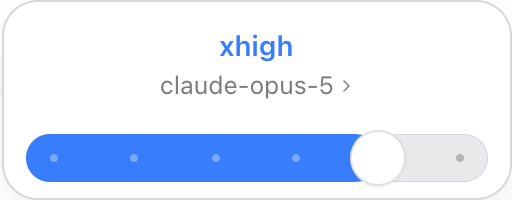
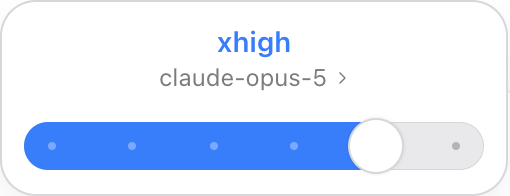
fix: 对齐 Codex 选择器的滚动与交互动画
将标题与搜索框移出模型列表滚动区域，使用双面板过渡并保持展开底边固定。

对齐 254px 面板、24px 轨道、28px 滑块，补充切档吸附、悬停弹性缩放、档位圆点反馈与抓取光标；最高档位使用渐变及一次性粒子扩散。

升级至 0.4.4，更新开源文档与截图；15 项逻辑测试和隔离 DSH 页面测试通过。

diff --git a/src/styles.css b/src/styles.css
@@ -14,33 +14,34 @@
 .dme-segmented{display:flex;gap:2px;border-radius:10px;background:color-mix(in srgb,currentColor 6%,transparent);padding:3px}.dme-segmented label{position:relative;cursor:pointer}.dme-segmented input{position:absolute;opacity:0;width:100%;height:100%;margin:0}.dme-segmented span{display:block;padding:7px 14px;border-radius:8px;font-size:13px}.dme-segmented input:checked+span{background:var(--ds-color-background-elevated,#fff);box-shadow:0 1px 4px #00000014}.dme-segmented input:focus-visible+span{outline:2px solid #387df8;outline-offset:1px}
 
 .dme-picker-trigger,.dme-picker-panel{--dmp-text:#161719;--dmp-muted:#7b7c80;--dmp-surface:#fff;--dmp-border:#d7d7d9;--dmp-hover:#f3f3f4;--dmp-track:#e9e9eb;--dmp-accent:#387dfa;box-sizing:border-box;color:var(--dmp-text);font-family:-apple-system,BlinkMacSystemFont,"Segoe UI",sans-serif}
-.dme-picker-trigger{display:inline-flex;align-items:center;gap:4px;max-width:360px;border:0;background:transparent;padding:4px 5px;font-size:13px;line-height:20px;cursor:pointer;border-radius:6px}.dme-picker-trigger>span:first-child{overflow:hidden;white-space:nowrap;text-overflow:ellipsis}.dme-picker-trigger .dme-chevron{transform:rotate(90deg);margin-left:2px;width:10px;height:10px;color:var(--dmp-muted)}.dme-trigger-effort{color:var(--dmp-muted);flex:none}.dme-picker-trigger:hover{background:var(--dmp-hover)}
+.dme-picker-trigger{display:inline-flex;align-items:center;gap:4px;max-width:360px;border:0;background:transparent;padding:4px 5px;font-size:13px;line-height:20px;cursor:default;border-radius:6px}.dme-picker-trigger>span:first-child{overflow:hidden;white-space:nowrap;text-overflow:ellipsis}.dme-picker-trigger .dme-chevron{transform:rotate(90deg);margin-left:2px;width:10px;height:10px;color:var(--dmp-muted)}.dme-trigger-effort{color:var(--dmp-muted);flex:none}.dme-picker-trigger:hover{background:var(--dmp-hover)}
 .dme-chevron,.dme-check{flex:none;fill:none;stroke:currentColor;stroke-linecap:round;stroke-linejoin:round;stroke-width:1.5}.dme-check{color:var(--dmp-muted)}
-.dme-picker-panel{position:fixed;z-index:1200;width:min(255px,calc(100vw - 24px));border:1px solid var(--dmp-border);border-radius:18px;background:var(--dmp-surface);box-shadow:0 8px 18px #00000010;overflow:hidden;overscroll-behavior:contain;padding:8px;scrollbar-width:none;isolation:isolate}.dme-picker-panel[data-pane=models]{overflow-y:auto}.dme-picker-panel::-webkit-scrollbar{display:none;width:0;height:0}
-.dme-picker-panel *{box-sizing:border-box}.dme-picker-panel button{color:inherit;font:inherit;cursor:pointer}.dme-picker-panel button:disabled,.dme-picker-trigger:disabled{cursor:default;opacity:.5}.dme-picker-panel button:focus-visible,.dme-picker-trigger:focus-visible{outline:2px solid var(--dmp-accent,#387dfa);outline-offset:1px}
-.dme-codex-effort{padding:2px 3px 0}.dme-effort-title{text-align:center;color:var(--dmp-accent);font-size:14px;line-height:20px;font-weight:600}.dme-model-link{display:flex;flex-direction:column;align-items:center;justify-content:center;max-width:100%;margin:0 auto;padding:2px 12px;border:0;border-radius:6px;background:transparent;transition:background-color .12s ease}.dme-model-link:hover,.dme-model-link:focus-visible{background:var(--dmp-hover)}.dme-current-model{display:flex;align-items:center;justify-content:center;gap:3px;max-width:100%;font-size:12.5px;line-height:20px;color:var(--dmp-muted);white-space:nowrap;overflow:hidden;text-overflow:ellipsis}.dme-model-link .dme-chevron{width:8px;height:8px}
-.dme-rail{position:relative;margin-top:12px;height:24px;border-radius:12px;background:var(--dmp-track);box-shadow:inset 0 0 0 .5px #00000014}.dme-rail-fill{position:absolute;inset:0 auto 0 0;width:calc(14px + (100% - 28px)*var(--dme-progress));border-radius:12px;background:var(--dmp-accent)}
-.dme-ticks{position:absolute;inset:0 14px;pointer-events:none}.dme-ticks i{position:absolute;top:10px;width:4px;height:4px;border-radius:50%;background:#b4b4b8;transform:translateX(-50%)}.dme-ticks i[data-filled]{background:#ffffff55}
-.dme-rail input{appearance:none;-webkit-appearance:none;position:absolute;inset:0;width:100%;height:24px;background:transparent;margin:0;cursor:ew-resize;touch-action:none;border:0;outline:none;border-radius:12px}.dme-rail input::-webkit-slider-runnable-track{height:24px;background:transparent}.dme-rail input::-webkit-slider-thumb{appearance:none;-webkit-appearance:none;width:28px;height:28px;margin-top:-2px;background:#fff;border:1px solid #e0e0e3;border-radius:50%;box-shadow:0 1px 2px #0000000d}.dme-rail input::-moz-range-track{height:24px;background:transparent}.dme-rail input::-moz-range-thumb{width:26px;height:26px;background:#fff;border:1px solid #e0e0e3;border-radius:50%;box-shadow:0 1px 2px #0000000d}.dme-rail input:focus-visible{outline:2px solid var(--dmp-accent);outline-offset:4px}.dme-rail input:disabled{cursor:default}
-.dme-codex-effort[data-highest] .dme-effort-title{color:#9655ff}.dme-codex-effort[data-highest] .dme-rail-fill{width:100%;background:linear-gradient(100deg,#353dcc,#7250ef 35%,#aa62ff 65%,#8762fa);background-size:150% 100%;animation:dme-glow 5s ease-in-out infinite alternate}.dme-codex-effort[data-highest] .dme-ticks{visibility:hidden}
+.dme-picker-panel{position:fixed;z-index:1200;width:min(254px,calc(100vw - 24px));border:.5px solid var(--dmp-border);border-radius:18px;background:var(--dmp-surface);box-shadow:0 8px 18px #00000010;overflow:hidden;padding:8px;isolation:isolate}.dme-picker-content{display:flex;flex-direction:column;height:100%;min-height:0}.dme-picker-views{position:relative;flex:1;min-height:0;overflow:clip}.dme-picker-pane{position:absolute;inset:0 0 auto;opacity:1;translate:0}.dme-picker-models{height:100%;display:flex;flex-direction:column}.dme-picker-pane[data-active=false]{pointer-events:none;opacity:0}.dme-picker-root[data-active=false]{translate:0 -10px}.dme-picker-models[data-active=false]{translate:0 10px}.dme-model-header{flex:none}.dme-model-list{flex:1;min-height:0;overflow-y:auto;overscroll-behavior:contain;scrollbar-width:none}.dme-model-list::-webkit-scrollbar{display:none;width:0;height:0}
+.dme-picker-panel *{box-sizing:border-box}.dme-picker-panel button{color:inherit;font:inherit;cursor:default}.dme-picker-panel button:disabled,.dme-picker-trigger:disabled{cursor:default;opacity:.5}.dme-picker-panel button:focus-visible,.dme-picker-trigger:focus-visible{outline:2px solid var(--dmp-accent,#387dfa);outline-offset:1px}
+.dme-codex-effort{padding:0 3px 2px}.dme-effort-title{text-align:center;color:var(--dmp-accent);font-size:14px;line-height:20px;font-weight:600}.dme-model-link{display:flex;flex-direction:column;align-items:center;justify-content:center;max-width:100%;margin:0 auto;padding:2px 8px;border:0;border-radius:6px;background:transparent;transition:background-color .12s ease}.dme-model-link:hover,.dme-model-link:focus-visible{background:var(--dmp-hover)}.dme-current-model{display:flex;align-items:center;justify-content:center;gap:3px;max-width:100%;font-size:12px;line-height:16px;color:var(--dmp-muted);white-space:nowrap;overflow:hidden;text-overflow:ellipsis}.dme-model-link .dme-chevron{width:8px;height:8px}
+.dme-slider{position:relative;height:28px;margin-top:10px;--dme-motion:.3s cubic-bezier(.23,1,.32,1)}.dme-rail{position:absolute;inset:2px 0;height:24px;border-radius:12px;background:var(--dmp-track);box-shadow:inset 0 0 0 .5px #00000014;overflow:hidden}.dme-rail-fill{position:absolute;inset:0 auto 0 0;width:calc(14px + (100% - 28px)*var(--dme-progress));border-radius:12px 0 0 12px;background:var(--dmp-accent);transition:width var(--dme-motion)}
+.dme-ticks{position:absolute;inset:0 14px;pointer-events:none}.dme-ticks i{position:absolute;top:50%;width:4px;height:4px;border-radius:50%;background:#b4b4b8;transform:translate(-50%,-50%);transition:transform .12s ease,filter .12s ease,background-color var(--dme-motion)}.dme-ticks i[data-filled]{background:#ffffff55}.dme-ticks i[data-hovered]{filter:brightness(.85);transform:translate(-50%,-50%) scale(2)}
+.dme-slider input{appearance:none;-webkit-appearance:none;position:absolute;inset:0;width:100%;height:28px;background:transparent;margin:0;cursor:default;touch-action:none;border:0;outline:none;border-radius:12px}.dme-slider input::-webkit-slider-runnable-track{height:24px;background:transparent}.dme-slider input::-webkit-slider-thumb{appearance:none;-webkit-appearance:none;width:28px;height:28px;margin-top:-2px;background:transparent;border:0;box-shadow:none}.dme-slider input::-moz-range-track{height:24px;background:transparent}.dme-slider input::-moz-range-thumb{width:28px;height:28px;background:transparent;border:0;box-shadow:none}.dme-slider input:focus-visible{outline:none}.dme-slider:has(input:focus-visible) .dme-slider-thumb{outline:2px solid var(--dmp-accent);outline-offset:0}.dme-slider input:disabled{cursor:default}.dme-codex-effort[data-dragging] .dme-slider{--dme-motion:.15s cubic-bezier(.23,1,.32,1);cursor:grabbing}.dme-codex-effort[data-dragging] .dme-slider input{cursor:grabbing}
+.dme-codex-effort[data-highest] .dme-effort-title{color:#9655ff}.dme-codex-effort[data-highest] .dme-rail-fill{width:100%}.dme-max-fill{position:absolute;inset:0;border-radius:12px;background:linear-gradient(100deg,#387dfa 8%,#387dfa 35%,#8e5aff 85%,#a567ff);mask-image:linear-gradient(90deg,transparent calc(var(--dme-reveal) - 120px),#000 var(--dme-reveal));animation:dme-max-reveal 2s both}.dme-codex-effort[data-highest] .dme-ticks{opacity:0}
 .dme-particles{position:absolute;inset:0;overflow:hidden;border-radius:12px;pointer-events:none}.dme-particles i{position:absolute;display:block;border-radius:50%;background:white;opacity:.65;animation:dme-spark 3s ease-in-out infinite}
-@keyframes dme-spark{0%,100%{opacity:.2;transform:translate(-4px,2px)}50%{opacity:.8;transform:translate(5px,-2px)}}@keyframes dme-glow{from{background-position:0% 50%}to{background-position:100% 50%}}
+.dme-thumb-particles{position:absolute;left:calc(14px + (100% - 28px)*var(--dme-progress));top:50%;pointer-events:none}.dme-thumb-particles i{position:absolute;width:5px;height:5px;border-radius:50%;background:#be9bff;animation:dme-thumb-spark .62s cubic-bezier(.25,1,.5,1) both}
+@keyframes dme-thumb-spark{0%{opacity:0;transform:translate(-50%,-50%) scale(.25)}22%{opacity:1;transform:translate(-50%,-50%) scale(1.28)}100%{opacity:0;transform:translate(calc(-50% + var(--spark-x)),calc(-50% + var(--spark-y))) scale(.55)}}
+@property --dme-reveal{syntax:'<percentage>';inherits:false;initial-value:0%}
+@keyframes dme-max-reveal{from{--dme-reveal:100%}to{--dme-reveal:0%}}
+@keyframes dme-spark{0%,100%{opacity:.2;transform:translate(-4px,2px)}50%{opacity:.8;transform:translate(5px,-2px)}}
 .dme-model-list{display:flex;flex-direction:column;gap:1px}.dme-model-list>button{display:flex;align-items:center;gap:8px;min-height:28px;width:100%;border:0;background:transparent;border-radius:7px;padding:4px;font-size:14px;line-height:20px;text-align:left}.dme-model-list>button:hover,.dme-model-list>button:focus-visible{background:var(--dmp-hover)}.dme-model-name{flex:1;min-width:0;overflow:hidden;text-overflow:ellipsis}.dme-model-name small{display:block;font-size:10px;line-height:14px;color:var(--dmp-muted)}.dme-model-list>button .dme-check{margin-left:auto}.dme-model-search{width:100%;margin:0 0 6px;border:0;border-bottom:1px solid var(--dmp-border);padding:5px 4px 9px;background:transparent;color:inherit;font:inherit;font-size:12px;outline:none}.dme-model-search:focus{border-bottom-color:var(--dmp-accent)}.dme-picker-empty{padding:8px 4px;font-size:12px;color:var(--dmp-muted)}.dme-picker-error{display:flex;align-items:center;gap:8px;font-size:11px;line-height:16px;color:#bd3434;margin:8px 4px 0}.dme-picker-error button{border:0;background:transparent;text-decoration:underline;padding:0;flex:none}
 body[data-ds-dark-theme] .dme-picker-trigger,body[data-ds-dark-theme] .dme-picker-panel{--dmp-text:#eeeef0;--dmp-muted:#a3a3a8;--dmp-surface:#252527;--dmp-border:#444449;--dmp-hover:#333336;--dmp-track:#444448}
 body[data-ds-dark-theme] .dme-segmented input:checked+span{background:#39393c}
 @media(max-width:600px){.dme-setting-row{align-items:flex-start;flex-direction:column;gap:12px;padding:16px 0}.dme-setting-row:last-child{flex-direction:row;align-items:center}.dme-picker-trigger{max-width:240px}}
-@media(prefers-reduced-motion:reduce){.dme-particles i,.dme-codex-effort[data-highest] .dme-rail-fill{animation:none}}
+@media(prefers-reduced-motion:reduce){.dme-particles i,.dme-thumb-particles i,.dme-max-fill{animation:none}.dme-thumb-particles{display:none}}
 
-.dme-picker-panel{transform-origin:bottom center;animation:dme-popup-in .14s cubic-bezier(.2,.8,.2,1);transition:height .2s cubic-bezier(.2,.8,.2,1),border-radius .18s ease}
+.dme-picker-panel{transform-origin:bottom center;animation:dme-popup-in .32s cubic-bezier(.23,1,.32,1) .03s both;transition:height .32s cubic-bezier(.19,1,.22,1),border-radius .32s cubic-bezier(.19,1,.22,1)}
 .dme-picker-trigger,.dme-picker-panel,.dme-picker-panel *{corner-shape:round}
 .dme-picker-panel.dme-picker-codex{border-color:var(--dmp-border);box-shadow:0 8px 20px #0000000d,0 1px 3px #00000003}.dme-picker-panel.dme-picker-codex[data-pane=models]{border-radius:16px}
-.dme-picker-pane{animation:dme-pane-in .18s cubic-bezier(.2,.8,.2,1)}.dme-picker-heading{padding:3px 4px 9px;color:var(--dmp-muted);font-size:12px;line-height:16px}.dme-effort-title>span{display:inline-block;animation:dme-label-in .14s ease-out}
-.dme-slider-thumb{position:absolute;pointer-events:none;top:50%;left:calc(14px + (100% - 28px)*var(--dme-progress));transform:translate(-50%,-50%);width:28px;height:28px;border:1px solid #e0e0e3;border-radius:50%;background:#fff;box-shadow:0 1px 2px #0000000d;transition:left .16s cubic-bezier(.2,.8,.2,1)}
-.dme-rail-fill{transition:width .16s cubic-bezier(.2,.8,.2,1)}.dme-codex-effort[data-dragging] .dme-slider-thumb,.dme-codex-effort[data-dragging] .dme-rail-fill{transition:none}
-.dme-rail input::-webkit-slider-thumb{background:transparent;border:0;box-shadow:none}.dme-rail input::-moz-range-thumb{background:transparent;border:0;box-shadow:none}
-@keyframes dme-popup-in{from{opacity:0;transform:translateY(4px) scale(.98)}to{opacity:1;transform:translateY(0) scale(1)}}
-@keyframes dme-pane-in{from{opacity:0;transform:translateX(6px)}to{opacity:1;transform:translateX(0)}}
+.dme-picker-pane{transition:opacity .2s cubic-bezier(.23,1,.32,1),translate .32s cubic-bezier(.19,1,.22,1)}.dme-picker-pane[data-active=true]{transition-delay:.04s}.dme-picker-heading{padding:3px 4px 9px;color:var(--dmp-muted);font-size:12px;line-height:16px}.dme-effort-title>span{display:inline-block;animation:dme-label-in .14s ease-out}
+.dme-slider-position{position:absolute;pointer-events:none;top:50%;left:calc(14px + (100% - 28px)*var(--dme-progress));transform:translate(-50%,-50%);width:28px;height:28px;transition:left var(--dme-motion)}.dme-slider-thumb{position:absolute;inset:0;border:.5px solid #d7d7d9;border-radius:50%;background:#fff;box-shadow:0 0 2px #0000001a}
+@keyframes dme-popup-in{from{opacity:0;transform:scale(.98)}to{opacity:1;transform:scale(1)}}
 @keyframes dme-label-in{from{opacity:.3;transform:translateY(3px)}to{opacity:1;transform:translateY(0)}}
-@media(prefers-reduced-motion:reduce){.dme-picker-panel,.dme-picker-pane,.dme-effort-title>span{animation:none}.dme-picker-panel,.dme-slider-thumb,.dme-rail-fill{transition:none}}
+@media(prefers-reduced-motion:reduce){.dme-picker-panel,.dme-picker-pane,.dme-effort-title>span{animation:none}.dme-picker-panel,.dme-picker-pane,.dme-slider-position,.dme-rail-fill,.dme-ticks i{transition:none}}
 
-.dme-model-header{position:sticky;top:-8px;background:var(--dmp-surface);z-index:1}.dme-model-list>button{scroll-margin-top:68px}.dme-codex-effort[data-minimum] .dme-rail-fill{width:0}
+.dme-model-header{background:var(--dmp-surface);z-index:1}.dme-model-list>button{flex:none}.dme-codex-effort[data-minimum] .dme-rail-fill{width:0}

diff --git a/src/picker.jsx b/src/picker.jsx
@@ -7,6 +7,26 @@ function Chevron() {
 }
 const Check = () => <svg className="dme-check" aria-hidden="true" width="16" height="16" viewBox="0 0 20 20"><path d="m4 10 4 4 8-10"/></svg>;
 
+function useThumbSpring(thumb, highlighted) {
+  useEffect(() => {
+    const element = thumb.current, target = highlighted ? 32 / 28 : 1;
+    const start = Number(getComputedStyle(element).scale) || 1;
+    const reduced = matchMedia('(prefers-reduced-motion: reduce)');
+    element.style.scale = String(target);
+    if (reduced.matches || Math.abs(start - target) < .0001) return;
+    const stiffness = highlighted ? 420 : 220, damping = highlighted ? 38 : 26;
+    const decay = damping / 2, frequency = Math.sqrt(stiffness - decay * decay);
+    const animation = element.animate(Array.from({length: 40}, (_, n) => {
+      const time = n / 39 * .65;
+      const displacement = Math.exp(-decay * time) * (Math.cos(frequency * time) + decay / frequency * Math.sin(frequency * time));
+      return {scale: target + (start - target) * displacement};
+    }), {duration: 650, easing: 'linear'});
+    const stop = () => {if (reduced.matches) animation.cancel();};
+    reduced.addEventListener('change', stop);
+    return () => {animation.cancel(); reduced.removeEventListener('change', stop);};
+  }, [highlighted]);
+}
+
 function usePopover(open, pane, trigger, panel, close) {
   const [position, setPosition] = useState(null);
   useLayoutEffect(() => {
@@ -39,6 +59,9 @@ function EffortSlider({levels, effort, busy, onSelect, modelName, onModels}) {
   const hostIndex = levels.findIndex(level => level.id === effort);
   const [index, setIndex] = useState(Math.max(0, hostIndex));
   const [isDragging, setDragging] = useState(false);
+  const [hoveredTick, setHoveredTick] = useState(null), [thumbHovered, setThumbHovered] = useState(false);
+  const thumb = useRef(null);
+  useThumbSpring(thumb, thumbHovered || isDragging);
   const dragging = useRef(false), draft = useRef(index);
   useEffect(() => {if (!dragging.current) {setIndex(Math.max(0, hostIndex)); draft.current = Math.max(0, hostIndex);}}, [hostIndex, busy]);
   const selected = levels[index];
@@ -51,13 +74,30 @@ function EffortSlider({levels, effort, busy, onSelect, modelName, onModels}) {
       <span className="dme-effort-title" aria-live="polite"><span key={title}>{title}</span></span>
       <span className="dme-current-model">{modelName}<Chevron/></span>
     </button>
-    <div className="dme-rail" style={{'--dme-progress': fraction}}>
+    <div className="dme-slider" style={{'--dme-progress': fraction}}>
+      <div className="dme-rail">
       <div className="dme-rail-fill"/>
-      <div className="dme-ticks" aria-hidden="true">{levels.map((level, n) => <i key={level.key} data-filled={n <= index || undefined} style={{left: `${levels.length > 1 ? n / (levels.length - 1) * 100 : 0}%`}}/>)}</div>
+      {highest && <div className="dme-max-fill" aria-hidden="true"/>}
+      <div className="dme-ticks" aria-hidden="true">{levels.map((level, n) => <i key={level.key} data-hovered={hoveredTick === n || undefined} data-filled={n <= index || undefined} style={{left: `${levels.length > 1 ? n / (levels.length - 1) * 100 : 0}%`}}/>)}</div>
       {highest && <div className="dme-particles" aria-hidden="true">{Array.from({length: 18}, (_, n) => <i key={n} style={{left: `${5 + (n * 37 % 89)}%`, top: `${20 + n * 23 % 60}%`, width: `${n % 5 === 0 ? 2.5 : 1.5}px`, height: `${n % 5 === 0 ? 2.5 : 1.5}px`, animationDelay: `${-n * .31}s`, animationDuration: `${2.4 + n % 4 * .6}s`}}/>)}</div>}
-      <div className="dme-slider-thumb" aria-hidden="true"/>
+      </div>
+      {highest && <div className="dme-thumb-particles" aria-hidden="true">{Array.from({length: 16}, (_, n) => {
+        const angle = n * Math.PI / 8 - Math.PI / 2, radius = n < 11 ? 34 : 24;
+        return <i key={n} style={{'--spark-x': `${Math.cos(angle) * radius}px`, '--spark-y': `${Math.sin(angle) * radius}px`, animationDelay: `${n % 3 * 6}ms`}}/>;
+      })}</div>}
+      <div className="dme-slider-position" aria-hidden="true"><div ref={thumb} className="dme-slider-thumb"/></div>
       <input type="range" aria-label="思考强度" aria-valuetext={selected.label} min="0" max={levels.length - 1} step="1" value={index}
         disabled={busy || levels.length < 2}
+        onPointerMove={e => {
+          const bounds = e.currentTarget.getBoundingClientRect(), x = e.clientX - bounds.left;
+          const tick = Math.round((x - 14) / (bounds.width - 28) * (levels.length - 1));
+          const tickX = 14 + (bounds.width - 28) * tick / (levels.length - 1);
+          const thumbBounds = thumb.current.getBoundingClientRect();
+          const overThumb = e.clientX >= thumbBounds.left - 3 && e.clientX <= thumbBounds.right + 3;
+          setThumbHovered(overThumb);
+          setHoveredTick(!overThumb && Math.abs(x - tickX) <= 8 ? tick : null);
+        }}
+        onPointerLeave={() => {setHoveredTick(null); setThumbHovered(false);}}
         onPointerDown={e => {dragging.current = true; setDragging(true); e.currentTarget.setPointerCapture(e.pointerId);}}
         onChange={e => {draft.current = Number(e.target.value); setIndex(draft.current); if (!dragging.current) commit();}}
         onPointerUp={() => {dragging.current = false; setDragging(false); commit();}}
@@ -75,6 +115,8 @@ export function CodexPicker({locked, available, directory, load, select}) {
   const trigger = useRef(null), panel = useRef(null), content = useRef(null), id = useId();
   const [height, setHeight] = useState(null);
   const busy = locked || state.pending !== null;
+  const failures = state.failures ?? [];
+  const loadError = state.error?.message;
   const close = (focus = true) => {setOpen(false); if (focus) trigger.current?.focus();};
   const position = usePopover(open, pane, trigger, panel, close);
   useEffect(() => {if (available) load();}, [directory, available]);
@@ -100,17 +142,28 @@ export function CodexPicker({locked, available, directory, load, select}) {
       const computed = getComputedStyle(panel.current);
       const padding = parseFloat(computed.paddingTop) + parseFloat(computed.paddingBottom)
         + parseFloat(computed.borderTopWidth) + parseFloat(computed.borderBottomWidth);
-      // Layout height excludes the popup's entrance transform. Measuring visual
-      // bounds during scale-in underestimates the panel and creates overflow.
-      setHeight(Math.ceil(content.current.offsetHeight + padding));
+      const active = content.current.querySelector('[data-active="true"]');
+      const list = active.querySelector('.dme-model-list');
+      const listHeight = list && [...list.children].reduce((sum, child) => sum + child.offsetHeight, 0)
+        + Math.max(0, list.children.length - 1) * parseFloat(getComputedStyle(list).rowGap);
+      const naturalHeight = list ? active.querySelector('.dme-model-header').offsetHeight + listHeight : active.offsetHeight;
+      const errorBox = content.current.querySelector('.dme-picker-error');
+      const errorHeight = errorBox ? errorBox.offsetHeight + parseFloat(getComputedStyle(errorBox).marginTop) : 0;
+      // Natural layout dimensions exclude entrance transforms and the scroll
+      // viewport. Only the model list scrolls; its heading stays outside it.
+      setHeight(Math.min(360, Math.ceil(naturalHeight + errorHeight + padding)));
     };
     measure();
-    const observer = new ResizeObserver(measure); observer.observe(content.current);
+    const observer = new ResizeObserver(measure);
+    for (const element of content.current.querySelectorAll('.dme-codex-effort,.dme-model-header,.dme-model-list,.dme-picker-error')) observer.observe(element);
     return () => observer.disconnect();
-  }, [open]);
+  }, [open, modelPane, choices.length, query, error, loadError, failures.length]);
+  useLayoutEffect(() => {
+    if (open && modelPane) content.current.querySelector('.dme-model-list').scrollTop = 0;
+  }, [open, pane]);
   useEffect(() => {
     if (!open) return;
-    const target = content.current.querySelector('input[type="range"], input[type="search"], [aria-checked="true"], [role="menuitemradio"], button');
+    const target = content.current.querySelector('[data-active="true"]').querySelector('input[type="range"], input[type="search"], [aria-checked="true"], [role="menuitemradio"], button');
     target?.focus({preventScroll: true});
     // Reveal the focused item after the height transition, so a growing model
     // menu does not scroll its header away while it is still slider-sized.
@@ -130,15 +183,13 @@ export function CodexPicker({locked, available, directory, load, select}) {
     if (event.key === 'Escape') {event.preventDefault(); event.stopPropagation(); pane !== 'root' ? goBack() : close();}
     if (event.key === 'Tab') {close(false); return;}
     if (event.target.matches('input')) return;
-    const items = [...panel.current.querySelectorAll('button:not(:disabled)')];
+    const items = [...panel.current.querySelectorAll('[data-active="true"] button:not(:disabled)')];
     const index = items.indexOf(document.activeElement);
     const next = event.key === 'ArrowDown' ? (index + 1) % items.length : event.key === 'ArrowUp' ? (index - 1 + items.length) % items.length
       : event.key === 'Home' ? 0 : event.key === 'End' ? items.length - 1 : null;
     if (next !== null && items[next]) {event.preventDefault(); items[next].focus({preventScroll: true}); items[next].scrollIntoView({block: 'nearest'});}
     if (event.key === 'ArrowLeft' && pane !== 'root') {event.preventDefault(); goBack();}
   };
-  const failures = state.failures ?? [];
-  const loadError = state.error?.message;
   return <>
     <button ref={trigger} type="button" className="dme-picker-trigger dme-picker-codex" aria-label={`选择模型 ${current?.model.name ?? ''} ${label}`.trim()}
       aria-expanded={open} aria-controls={open ? id : undefined} aria-haspopup="dialog" disabled={busy || !available}
@@ -147,9 +198,12 @@ export function CodexPicker({locked, available, directory, load, select}) {
     </button>
     {open && createPortal(<div ref={panel} id={id} className="dme-picker-panel dme-picker-codex" role="dialog" aria-label="模型与思考强度"
       data-pane={modelPane ? 'models' : pane} style={{...(position ?? {visibility: 'hidden'}), ...(height === null ? {} : {height})}} onKeyDown={onKeyDown}>
-      <div ref={content} className="dme-picker-content"><div key={pane} className="dme-picker-pane">
-      {!modelPane ? <EffortSlider levels={levels} effort={effort} busy={busy}
-        modelName={current.model.name} onSelect={selectEffort} onModels={() => {setPane('models'); setQuery('');}}/> : <>
+      <div ref={content} className="dme-picker-content"><div className="dme-picker-views">
+        <div className="dme-picker-pane dme-picker-root" data-active={!modelPane} aria-hidden={modelPane} inert={modelPane}>
+          {levels.length > 0 && <EffortSlider key={JSON.stringify([current.provider, current.model.id])} levels={levels} effort={effort} busy={busy}
+            modelName={current.model.name} onSelect={selectEffort} onModels={() => {setPane('models'); setQuery('');}}/>}
+        </div>
+        <div className="dme-picker-pane dme-picker-models" data-active={modelPane} aria-hidden={!modelPane} inert={!modelPane}>
           <div className="dme-model-header">
             <div className="dme-picker-heading">选择模型</div>
             {choices.length > 8 && <input className="dme-model-search" type="search" placeholder="搜索模型" aria-label="搜索模型" value={query} onChange={e => setQuery(e.target.value)}/>}
@@ -164,7 +218,7 @@ export function CodexPicker({locked, available, directory, load, select}) {
             </button>)}
             {!visible.length && <span className="dme-picker-empty">{state.status === 'loading' ? '正在加载…' : query ? '没有匹配的模型' : '没有可用模型'}</span>}
           </div>
-      </>}
+        </div>
       </div>
       {(error || loadError || failures.length > 0) && <div className="dme-picker-error" role="alert">
         <span>{error || loadError || failures.map(failure => failure.error?.message ?? failure.message ?? '模型目录加载失败').join('；')}</span>

diff --git a/docs/VERIFICATION.md b/docs/VERIFICATION.md
@@ -1,6 +1,6 @@
 # 验证记录
 
-日期：2026-10-12。插件：0.4.3。宿主：DeepSeek Harness 0.2.0-rc.2。
+日期：2026-10-12。插件：0.4.4。宿主：DeepSeek Harness 0.2.0-rc.2。
 
 ## 自动验证
 
@@ -12,7 +12,9 @@
 - 标签内的“设为默认”按钮、默认标签、折叠和重新打开后的状态。
 - DeepSeek 原生和 Codex 两种选择器的即时切换及插件禁用恢复。
 - Codex 滑杆的键盘和鼠标操作，按模型显示实际档位，最高档位粒子动画，排除 Ultra。
-- 标准圆角面板和圆形滑块；面板展开、菜单切换、高度过渡及滑杆吸附动画。按布局尺寸测量高度，展开过程中底边保持固定；档位与模型名称共用悬停背景。
+- 254px 面板、24px 轨道和 28px 滑块。切档经过中间位置，正常吸附 300ms，拖动吸附 150ms；滑块悬停弹性放大至 32px，档位圆点放大为两倍，拖动光标为 grabbing。
+- 面板打开 320ms、延迟 30ms；菜单切换使用淡入淡出、10px 位移和 320ms 高度过渡。展开过程中底边保持固定，未显示的面板不接收焦点或点击；档位与模型名称共用悬停背景。
+- 最高档位轨道渐变及持续粒子效果，滑块周围 16 个粒子扩散一次，620ms 后淡出；减少动态效果时关闭这些动画。
 - 两个界面选项显示在通用设置中，沿用 DSH 行式布局和原生开关；无独立 Tab 和额外外框。
 - 设置持久化、页面重载、编辑器 UI 独立开关；切换样式或关闭 UI 不写入模型配置。
 - Escape 返回上一级、关闭后恢复焦点、窄窗口布局、深色主题、减少动态效果。
@@ -23,7 +25,9 @@
 
 ## 桌面验证
 
-在已安装的 macOS DeepSeek Harness 中升级并重新启动插件，检查设置入口及 Codex 选择器的实际显示。桌面版原有模型、服务商和自定义档位在升级过程中保留。
+在已安装的 macOS DeepSeek Harness 中升级并重新启动插件，检查 Codex 选择器的实际显示。安装后核对插件文件与构建包一致，并比较升级前后的全部 LLM 渠道配置。
+
+尺寸、鼠标反馈和动画时序参考本机已安装 Codex 客户端的模型选择器资源。菜单和滑杆由本项目独立实现。
 
 ## 兼容范围
 

diff --git a/README.md b/README.md
@@ -52,7 +52,9 @@ npm pack
 
 Codex 选择器读取 DSH 模型目录中实际配置的档位，使用原生会话模型切换接口。档位名称直接显示英文值。最高档位的动画是一种视觉效果，不会增加 `Ultra` 档位。
 
-选择器包含面板展开、菜单切换、档位标签和滑杆吸附动画，支持键盘操作、模型搜索、深色主题和减少动态效果。模型目录较长时显示搜索框；模型菜单最高 360px，标题和搜索框固定，各模型下方显示所属渠道。列表可滚动，但不显示滚动条；滑杆面板的档位与模型名称使用统一的悬停背景。未配置思考能力的模型只显示模型列表。
+选择器包含面板展开、菜单切换和滑杆吸附动画。悬停滑块或档位圆点时会放大，拖动时显示抓取光标；最高档位显示渐变轨道和粒子扩散效果。支持键盘操作、模型搜索、深色主题和减少动态效果。
+
+模型目录较长时显示搜索框；模型菜单最高 360px，只有模型列表滚动，标题和搜索框固定。各模型下方显示所属渠道。列表不显示滚动条；滑杆面板的档位与模型名称使用统一的悬停背景。未配置思考能力的模型只显示模型列表。
 
 ### 编辑模型档位
 
